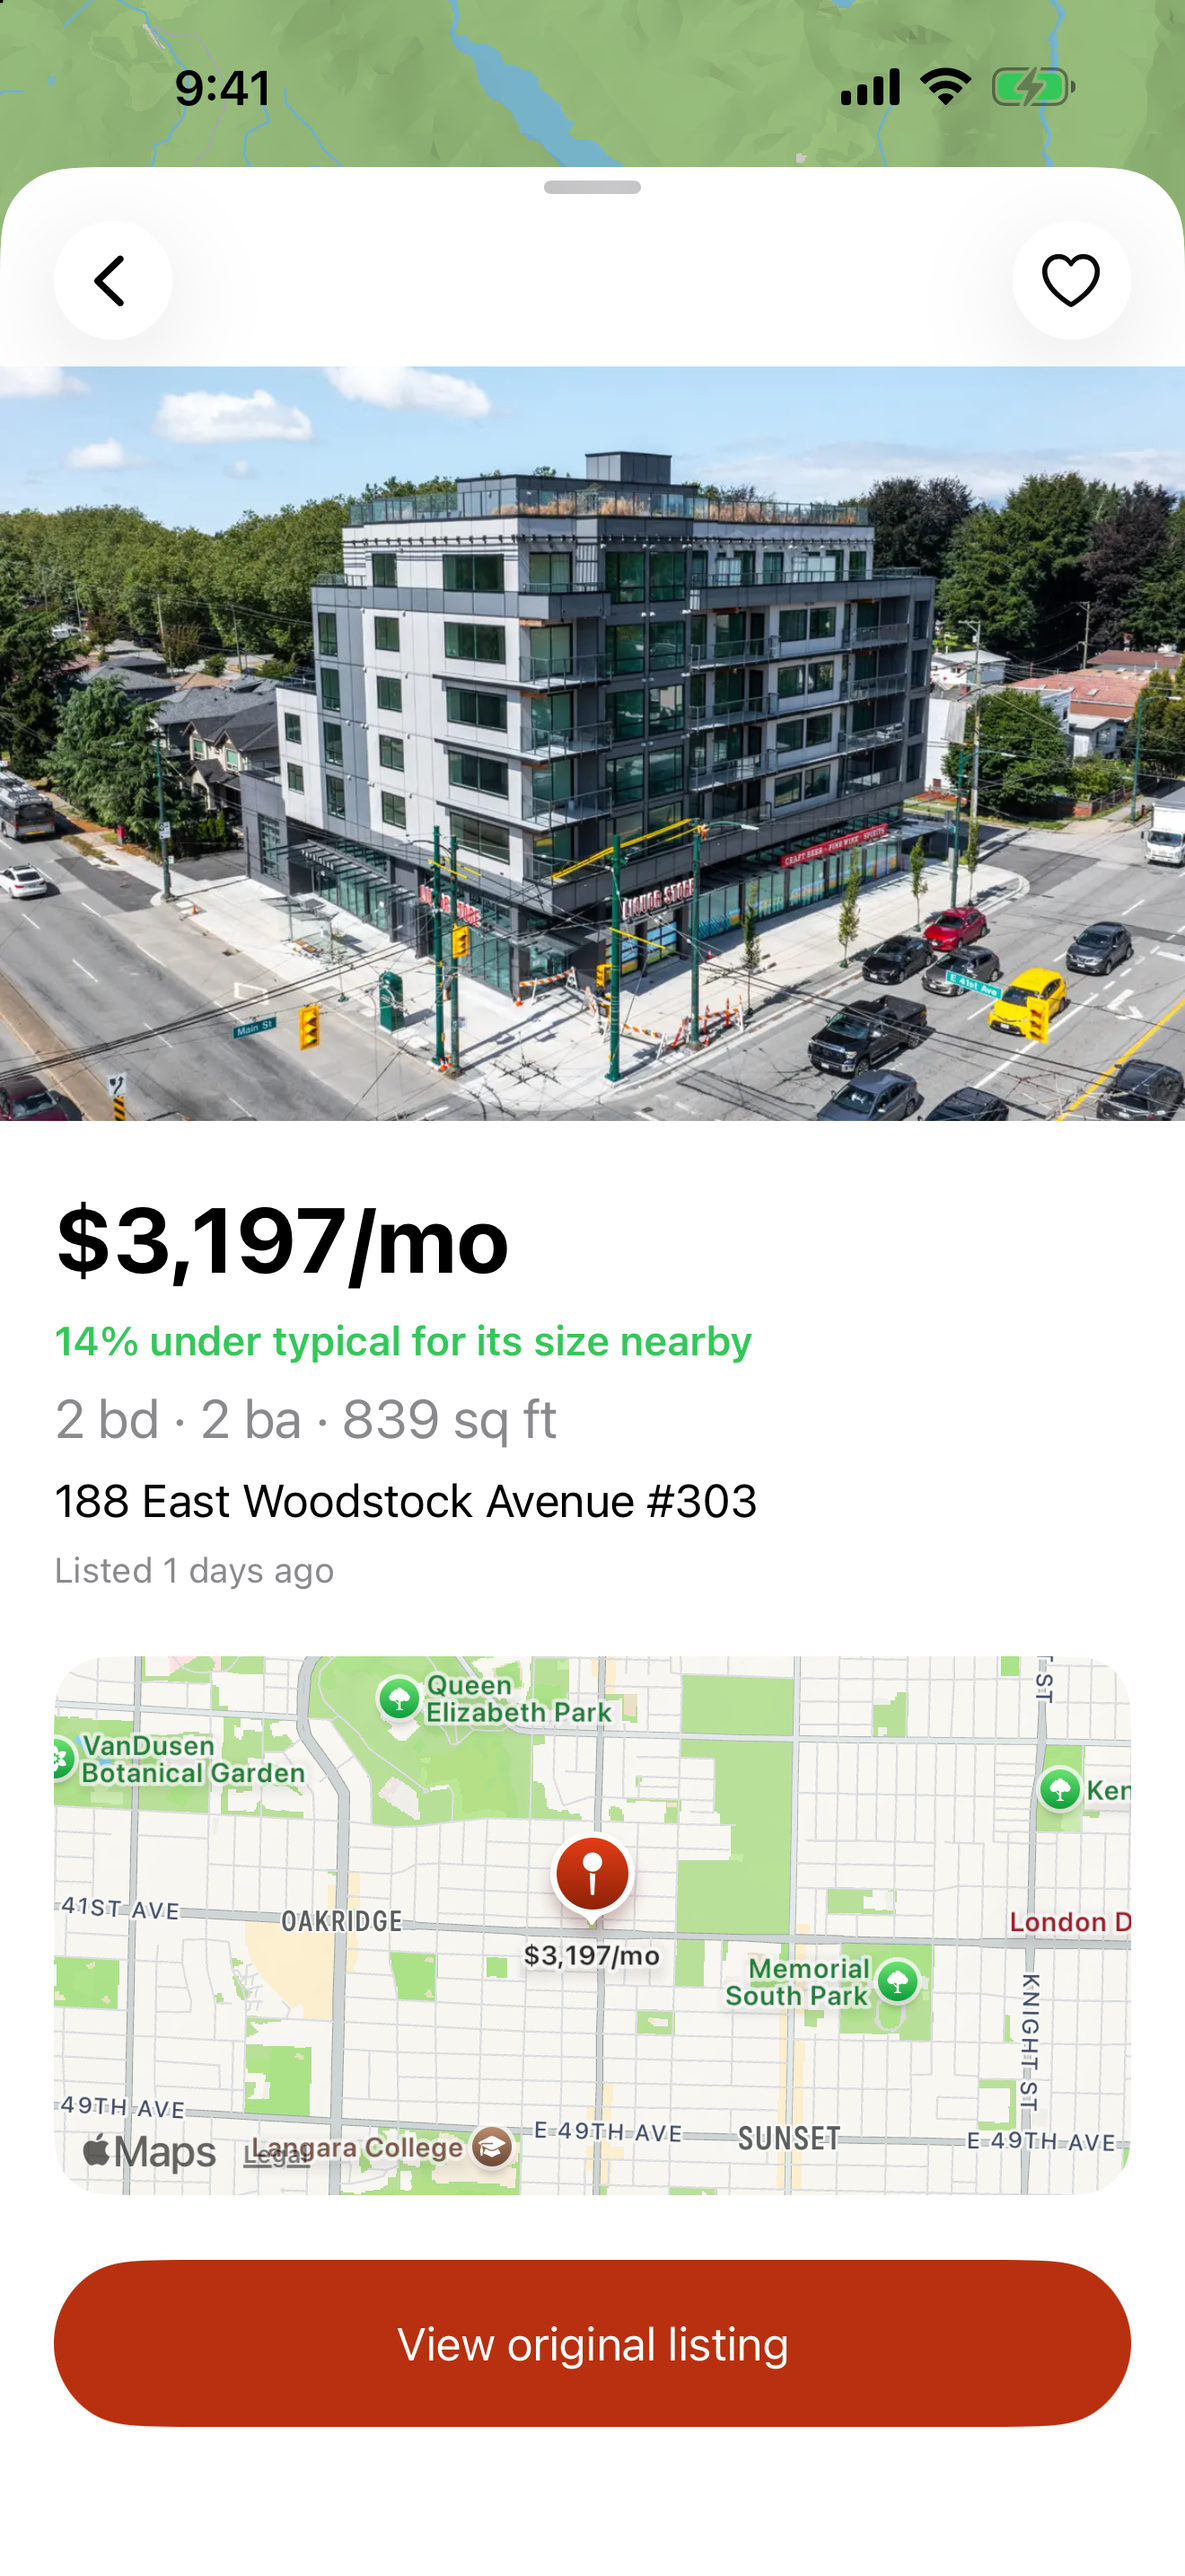
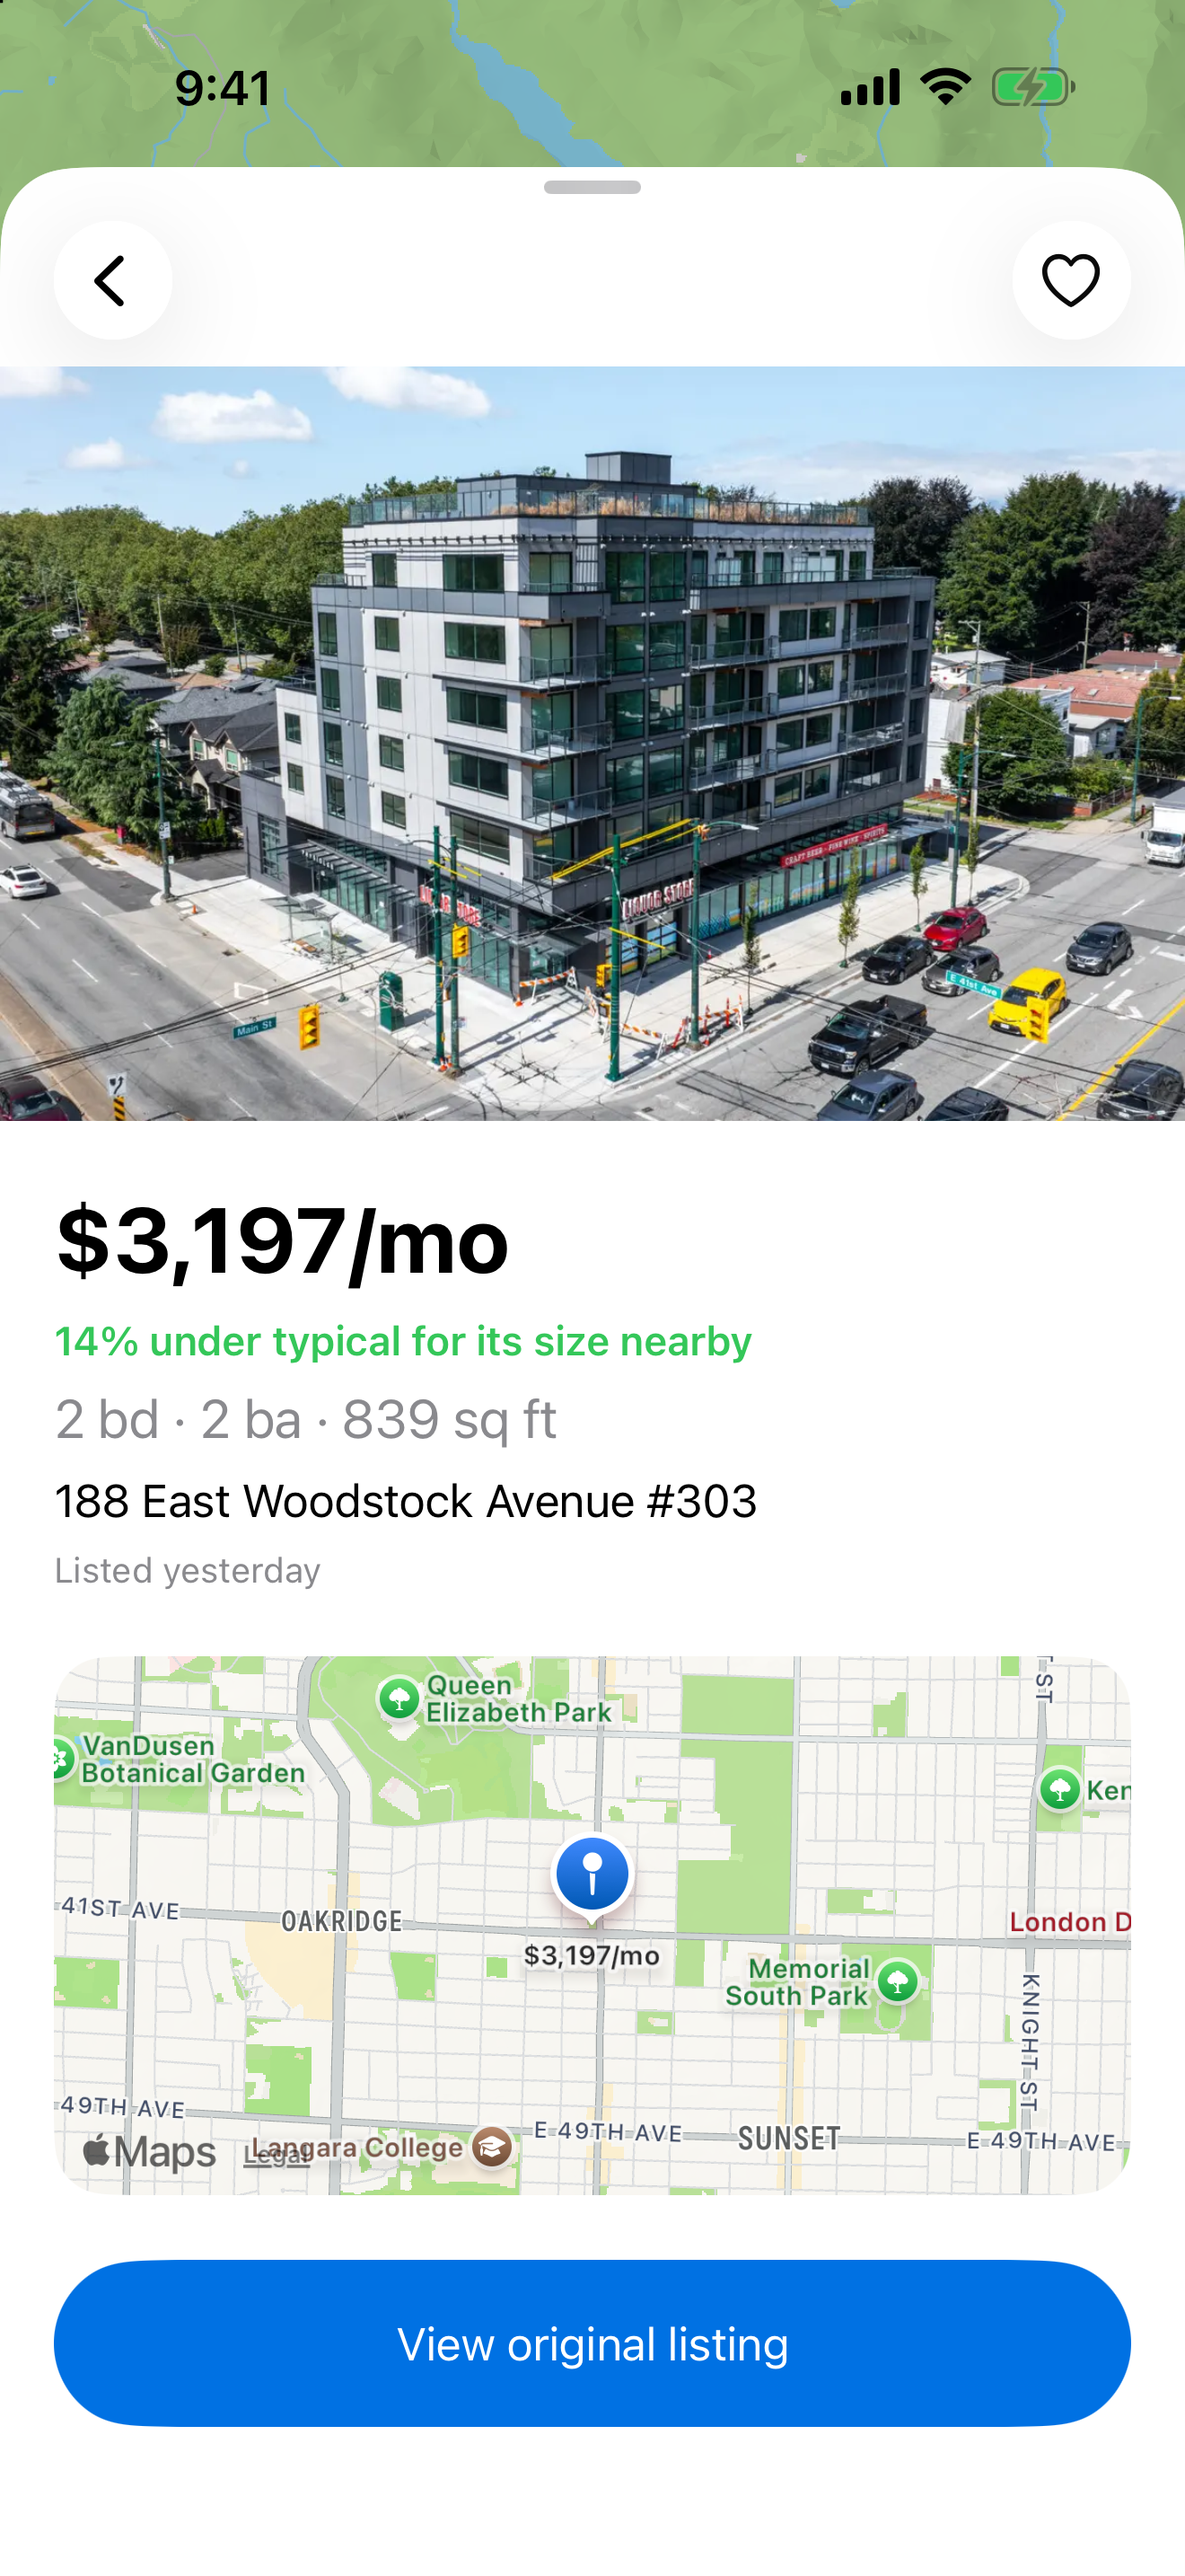
Store: keywords without subtitle overlap, listed-yesterday copy, photos-first screenshot mode, build 3
Claude-Session: https://claude.ai/code/session_01M7cFnchjKrWEuspCSkxig3

Changed region(s): [[0.0311, 0.8689, 0.9629, 0.962], [0.1553, 0.5896, 0.2795, 0.6206], [0.4659, 0.7137, 0.528, 0.7448]]

diff --git a/ios/Sources/Store.swift b/ios/Sources/Store.swift
@@ -134,10 +134,13 @@ final class Store {
     var visible: [Listing] {
         let rows = listings.filter { l in
             (minBeds == 0 || l.beds >= Double(minBeds)) && (type == nil || l.type == type) && (maxPrice == nil || l.price <= maxPrice!)
-                && (!UserDefaults.standard.bool(forKey: "photosOnly") || !l.photos.isEmpty) && (!dealsOnly || l.deal >= 5) && (!freshOnly || (l.listedDaysAgo ?? 99) <= 7)
+                && (!dealsOnly || l.deal >= 5) && (!freshOnly || (l.listedDaysAgo ?? 99) <= 7)
         }
+        // Screenshots only: homes with a real photo first, so the store images are not placeholders.
+        let photosFirst = UserDefaults.standard.bool(forKey: "photosOnly")
+        func order(_ a: Listing, _ b: Listing, _ by: Bool) -> Bool { photosFirst && a.photos.isEmpty != b.photos.isEmpty ? !a.photos.isEmpty : by }
         switch sort {
-        case .deal: return rows.sorted { $0.deal > $1.deal }
+        case .deal: return rows.sorted { order($0, $1, $0.deal > $1.deal) }
         case .priceLow: return rows.sorted { $0.price < $1.price }
         case .priceHigh: return rows.sorted { $0.price > $1.price }
         case .newest: return rows.sorted { ($0.listedDaysAgo ?? 99) < ($1.listedDaysAgo ?? 99) }

diff --git a/ios/Sources/AtlinApp.swift b/ios/Sources/AtlinApp.swift
@@ -361,7 +361,7 @@ struct ListingDetail: View {
                     Text(listing.statsText).font(.title3).foregroundStyle(.secondary)
                     Text(listing.address ?? listing.city ?? "")
                     if let days = listing.listedDaysAgo {
-                        Text(days == 0 ? "Listed today" : "Listed \(days) days ago").font(.footnote).foregroundStyle(.secondary)
+                        Text(days == 0 ? "Listed today" : days == 1 ? "Listed yesterday" : "Listed \(days) days ago").font(.footnote).foregroundStyle(.secondary)
                     }
                 }
                 .padding(.horizontal, Space.margin)
